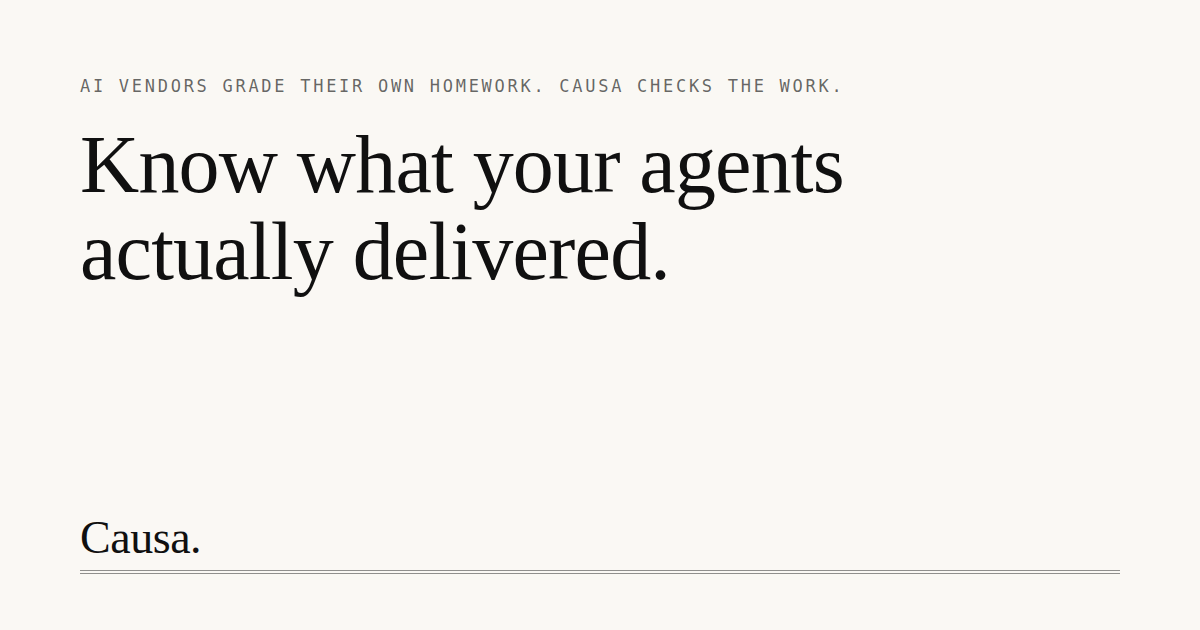
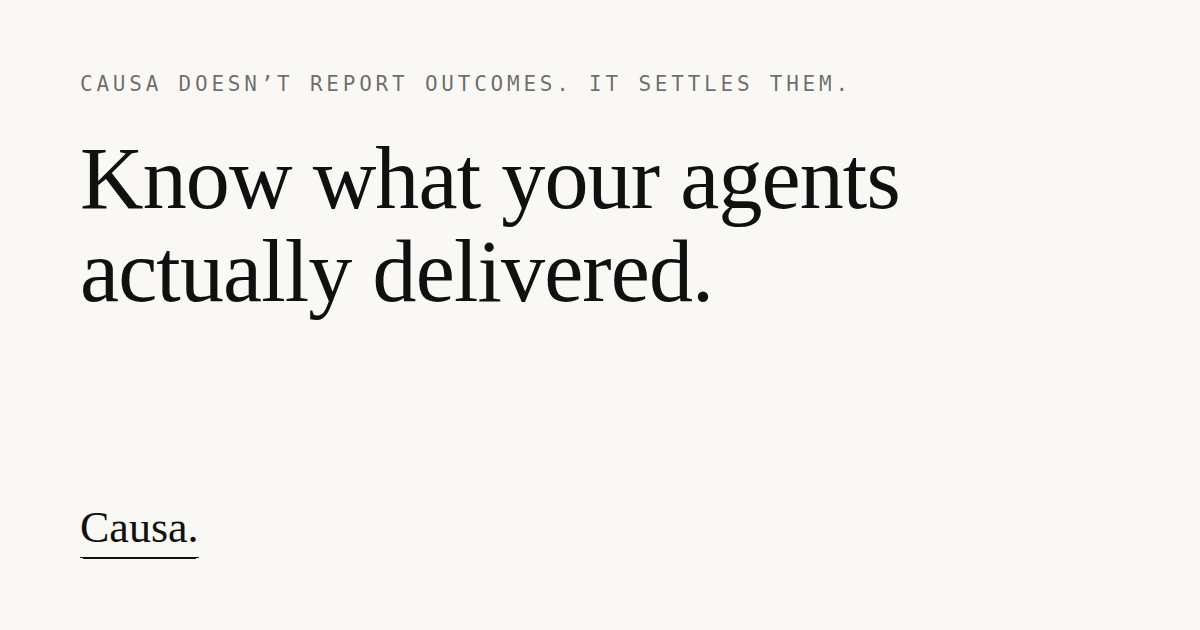
Add value, don't play cop: settle-not-check framing, faster promise
Founder review of PR #10, recorded as causa-plan.md Addendum 7:

- Retire the referee framing from payer-facing copy. The homework line
  and "checks the work" are gone from the landing, metadata, company
  page, and the OG card (regenerated); the canonical motto "Causa
  doesn't report outcomes. It settles them." takes the hero eyebrow.
  Hero sub now sells the value: results priced against what they earned,
  the move drafted.
- Landing claim reframed from referee-speak to doubt-thaws-budgets:
  "Doubt freezes agent budgets... Causa turns doubt into a record — and
  the record into moves."
- Speed promise: "minutes to proof" (workbench) leads; the statement is
  "days from your data." All "7 days" promises replaced across hero,
  final CTAs, tiers, lead capture, and the demo footnote. The 7-day
  reopen quality bar in the ledger is unrelated and unchanged.
- Renegotiation reads as an armory, not a service: "Your case, drafted."
  Self-serve moves (double down, reroute, cut) lead the copy.
- Landing final CTA now pairs Get statement with the workbench link.

Claude-Session: https://claude.ai/code/session_01Lu2aXYvZL54ZZ8JoL6sZdh

Changed region(s): [[0.0617, 0.2111, 0.7708, 0.5127], [0.0617, 0.8143, 0.925, 0.9349], [0.0617, 0.1206, 0.7092, 0.1508]]

diff --git a/components/landing/LandingPage.tsx b/components/landing/LandingPage.tsx
@@ -39,7 +39,7 @@ export default function LandingPage() {
         {/* §1 Hero */}
         <section className="mx-auto max-w-6xl px-4 pb-20 pt-10 sm:pt-16">
           <p className="eyebrow text-ink/60">
-            AI vendors grade their own homework. Causa checks the work.
+            Causa doesn&rsquo;t report outcomes. It settles them.
           </p>
           <h1
             className="mt-4 max-w-5xl font-serif leading-[1.02]"
@@ -48,9 +48,9 @@ export default function LandingPage() {
             Know what your agents actually delivered.
           </h1>
           <p className="mt-6 max-w-2xl text-lg leading-relaxed text-ink/80">
-            Tickets closed, meetings booked, accounts provisioned — Causa checks every claim
-            where it lands, prices what was real, and drafts the next move. First statement in
-            7 days.
+            Every result your agents bill for, priced against what it actually earned you.
+            Then the move, drafted: double down, reroute, or cut. Proof from your own files in
+            minutes.
           </p>
           <div className="mt-8 flex flex-wrap items-center gap-4">
             <button className="btn-ink" onClick={() => setLeadOpen(true)}>
@@ -128,8 +128,8 @@ export default function LandingPage() {
         {/* §3 The claim */}
         <section className="mx-auto max-w-6xl px-4 py-20">
           {[
-            "Every outcome invoice is self-reported. The agent's maker can't be its referee.",
-            "Causa is that record — what your AI workforce actually delivered, priced and settled. Payer-funded, permanently.",
+            "Doubt freezes agent budgets. Renewals stall, invoices get paid on faith, the third agent never gets funded.",
+            "Causa turns doubt into a record — and the record into moves. Payer-funded, permanently.",
           ].map((line) => (
             <div key={line} className="rule border-t py-6">
               <p className="max-w-4xl font-serif text-2xl sm:text-3xl">{line}</p>
@@ -217,7 +217,7 @@ export default function LandingPage() {
                 <div className="mt-4 space-y-3">
                   {(
                     [
-                      ["support", "Fair price is $1.06, not $1.50 — email drafted", `${fmt.usd(1233)}/mo back`],
+                      ["support", "Fair price is $1.06, not $1.50. Your case, drafted.", `${fmt.usd(1233)}/mo back`],
                       ["meetings", "The reps were right — agent-only meetings convert worse", `${fmt.usd(2900)}/mo back`],
                       ["workspace", "Clone the account agent to contractor onboarding", `+${fmt.usd(2140)}/mo`],
                     ] as const
@@ -291,7 +291,7 @@ export default function LandingPage() {
               ],
               [
                 "Causa matches every outcome to whatever did the work.",
-                "Agent, model, or person — each claim checked against the record. The join is the hard part, and it's ours: keys hide in tool calls, hybrid work splits credit. What's joinable is reported before you pay.",
+                "Agent, model, or person — each claim matched to what did the work. The join is the hard part, and it's ours: keys hide in tool calls, hybrid work splits credit. What's joinable is reported before you pay.",
               ],
               [
                 "Every month: a statement that ends in decisions.",
@@ -368,20 +368,21 @@ export default function LandingPage() {
         {/* §8 Final CTA */}
         <section className="mx-auto max-w-6xl px-4 py-20">
           <h2 className="max-w-3xl font-serif text-4xl sm:text-5xl">
-            First Verified Outcome Statement in 7 days.
+            Minutes to proof. Days to your first statement.
           </h2>
           <p className="mt-3 max-w-2xl text-[15px] text-ink/70">
-            Pilot from $7.5K, credited against your first year. Two exports and a join key.
+            Run your own exports in the workbench right now — no signup. Pilot from $7.5K,
+            credited against your first year. Two exports and a join key.
           </p>
           <div className="mt-6 flex flex-wrap items-center gap-4">
             <button className="btn-ink" onClick={() => setLeadOpen(true)}>
               Get statement
             </button>
             <Link
-              href="/demo"
+              href="/workbench"
               className="flex min-h-[44px] items-center text-[15px] font-medium underline-offset-4 hover:underline"
             >
-              See the demo →
+              Run your own files →
             </Link>
           </div>
         </section>

diff --git a/components/landing/CompanyPage.tsx b/components/landing/CompanyPage.tsx
@@ -33,7 +33,7 @@ export default function CompanyPage() {
             {[
               "Software is moving from paying for time to paying for results — per resolved ticket, per provisioned account, per booked meeting.",
               "Every one of those invoices is self-reported by the party getting paid. The agent's maker can't be the agent's referee.",
-              "Causa is the independent layer that checks the work. Payer-funded, permanently.",
+              "Causa is the independent record of what that work is worth — priced, settled, and turned into the next move. Payer-funded, permanently.",
             ].map((line) => (
               <div key={line} className="rule border-t py-5">
                 <p className="font-serif text-2xl leading-snug sm:text-3xl">{line}</p>
@@ -78,7 +78,7 @@ export default function CompanyPage() {
             <Reveal>
               <h2 className="font-serif text-5xl sm:text-7xl">Meter</h2>
               <p className="mt-2 max-w-xl text-[15px] text-ink/70">
-                Verify. Every claimed outcome checked where it lands, then asked: would it have
+                Verify. Every claimed outcome proved where it lands, then asked: would it have
                 happened anyway?
               </p>
             </Reveal>
@@ -129,7 +129,7 @@ export default function CompanyPage() {
           </p>
           <div className="mt-14">
             <h2 className="max-w-3xl font-serif text-4xl sm:text-5xl">
-              First Verified Outcome Statement in 7 days.
+              Minutes to proof. Days to your first statement.
             </h2>
             <p className="mt-3 max-w-2xl text-[15px] text-ink/70">
               Pilot from $7.5K, credited against your first year. Two exports and a join key.

diff --git a/components/landing/LeadCapture.tsx b/components/landing/LeadCapture.tsx
@@ -103,8 +103,9 @@ export default function LeadCapture({ onClose }: { onClose: () => void }) {
               </span>
             </Stamp>
             <p className="mt-6 max-w-sm text-[15px] leading-relaxed">
-              Your first Verified Outcome Statement is 7 days from your data. We&rsquo;ll reply
-              within one business day with the export checklist — two files and a join key.
+              Your first Verified Outcome Statement lands days after your data does. We&rsquo;ll
+              reply within one business day with the export checklist — two files and a join
+              key.
             </p>
             <button className="btn-outline mt-8" onClick={onClose}>
               Close form
@@ -123,8 +124,8 @@ export default function LeadCapture({ onClose }: { onClose: () => void }) {
               </button>
             </div>
             <p className="mt-2 text-sm text-ink/70">
-              First Verified Outcome Statement in 7 days — from $7.5K, credited against your
-              first year. Have three things ready: an export of agent activity, an export of
+              Your first Verified Outcome Statement, days from your data — from $7.5K, credited
+              against your first year. Have three things ready: an export of agent activity, an export of
               outcomes (Zendesk, Jira, Stripe…), and the ID column they share — ticket_id
               works.
             </p>

diff --git a/app/layout.tsx b/app/layout.tsx
@@ -28,12 +28,12 @@ export const metadata: Metadata = {
   metadataBase: new URL("https://causa.vercel.app"),
   title: "Causa — Know what your agents actually delivered.",
   description:
-    "Every agent result is self-reported. Causa checks each claimed outcome where it lands, prices what was real, and tells you what to do next. First statement in 7 days.",
+    "Causa prices every result your agents bill for against what it actually earned you, then drafts the move: double down, reroute, or cut. Proof from your own files in minutes.",
   icons: { icon: "/favicon.svg" },
   openGraph: {
     title: "Causa — Know what your agents actually delivered.",
     description:
-      "Every agent result is self-reported. Causa checks each claimed outcome where it lands, prices what was real, and tells you what to do next. First statement in 7 days.",
+      "Causa prices every result your agents bill for against what it actually earned you, then drafts the move: double down, reroute, or cut. Proof from your own files in minutes.",
     images: [{ url: "/og.png", width: 1200, height: 630 }],
   },
   twitter: {

diff --git a/components/landing/Tiers.tsx b/components/landing/Tiers.tsx
@@ -7,7 +7,7 @@ const TIERS = [
     name: "Tier 0 — Pilot",
     summary: "No integration required.",
     detail:
-      "Export your agent activity — from your vendor's dashboard or wherever your agent runs. Export your outcomes. Give us the key that joins them. Statement in 7 days, from $7.5K, credited against your first year.",
+      "Export your agent activity — from your vendor's dashboard or wherever your agent runs. Export your outcomes. Give us the key that joins them. Statement in days, from $7.5K, credited against your first year.",
   },
   {
     name: "Tier 1 — One workflow, live",

diff --git a/app/company/page.tsx b/app/company/page.tsx
@@ -4,7 +4,7 @@ import CompanyPage from "@/components/landing/CompanyPage";
 export const metadata: Metadata = {
   title: "Causa — Machine labor needs a referee.",
   description:
-    "Every outcome invoice is self-reported by the party getting paid. Causa is the independent layer that checks the work — payer-funded, permanently.",
+    "Software is moving to paying for results — and every result is self-reported by the party getting paid. Causa is the independent record of what agent work is worth. Payer-funded, permanently.",
 };
 
 export default function Company() {

diff --git a/components/demo/Screen2Connect.tsx b/components/demo/Screen2Connect.tsx
@@ -258,7 +258,7 @@ export default function Screen2Connect() {
           </p>
         )}
         <p className="rule mt-4 border-t pt-3 text-sm text-ink/60">
-          No SDK. No proxy. Statement ready in 7 days from first sync. Have exports already?{" "}
+          No SDK. No proxy. Statement ready days after first sync. Have exports already?{" "}
           <a href="/workbench" className="underline underline-offset-4">
             Run them in the workbench →
           </a>

diff --git a/causa-plan.md b/causa-plan.md
@@ -236,6 +236,15 @@ Founder review of the live landing page. Where these conflict with anything abov
 7. **Numerals are instruments.** Data figures set in the grotesque, semibold, tabular. The display serif is reserved for headlines, canonical lines, and verdict stamps. Tier and step indices are mono ledger annotations (TIER 0, 01), never display digits.
 8. **Pillars header:** *One record. Four jobs.* Refinery head: *Every statement ends in a move.*
 
+## ADDENDUM 7 — Add value, don't play cop (July 2026)
+
+Founder review of PR #10. Where these conflict with anything above, these win:
+
+1. **Retire the referee framing from payer-facing copy.** No "checks the work," no homework line on the landing or the OG card. The premise (invoices are self-reported) survives as context on `/company`; Causa's role is stated as value: price what results earned, hand back the move. The canonical motto — *Causa doesn't report outcomes. It settles them.* — replaces the homework eyebrow everywhere it appeared.
+2. **Speed: never lead with "7 days."** The lead speed claim is the workbench: proof from your own files in minutes. The statement promise is "days from your data." (Set a hard SLA number only when ops can back it.) The 7-day quality bar in the Meridian ledger (reopen window) is unrelated and unchanged.
+3. **Renegotiation is an armory, not a service.** Causa never contacts vendors; it drafts the case and the customer decides to send it. Copy never implies Causa hassles anyone. The self-serve moves (double down, reroute, cut) lead; renegotiate follows — it is ~17% of specimen verdict impact and should read that way.
+4. **Voice: the numbers do the selling.** Second person, short declaratives, fewer symmetrical triads and em-dashes. The claim frame is doubt-thaws-budgets (thesis §3.2): doubt freezes agent budgets; the record turns doubt into moves.
+
 ## PART 8 — DEFINITION OF DONE
 
 1. `npm run build` clean; data assertions pass; deploys to Vercel; light mode only.
